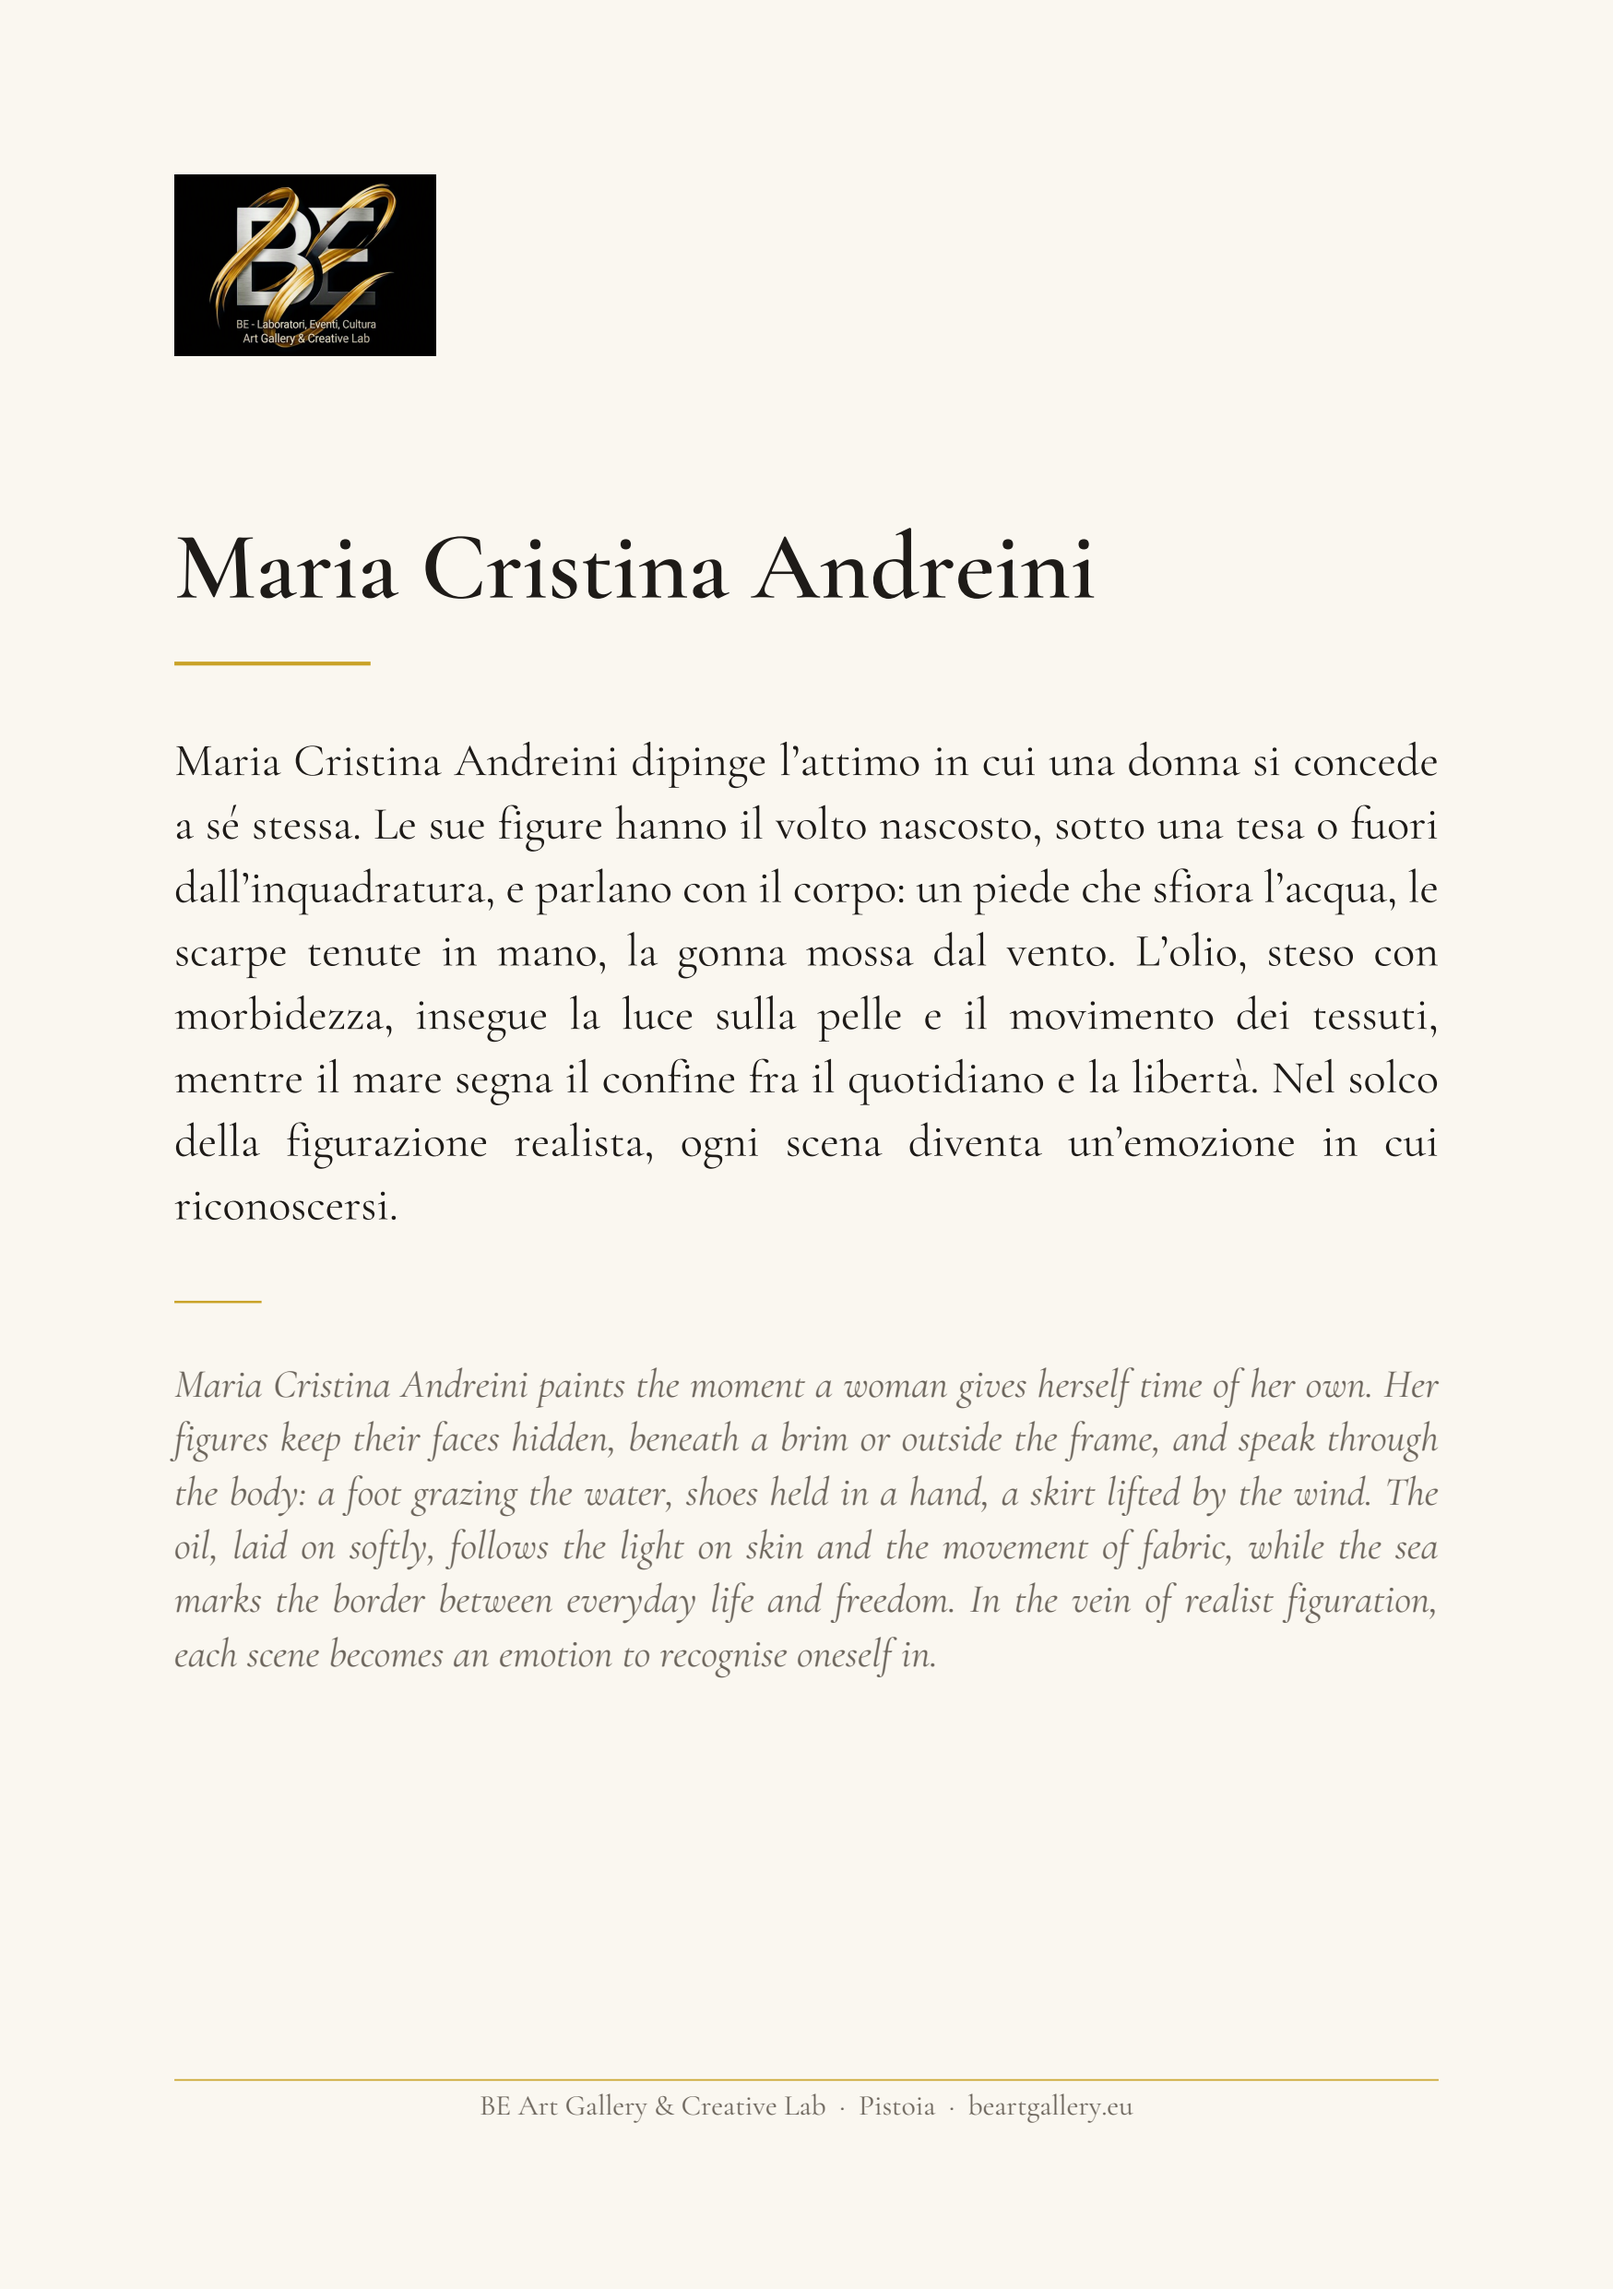
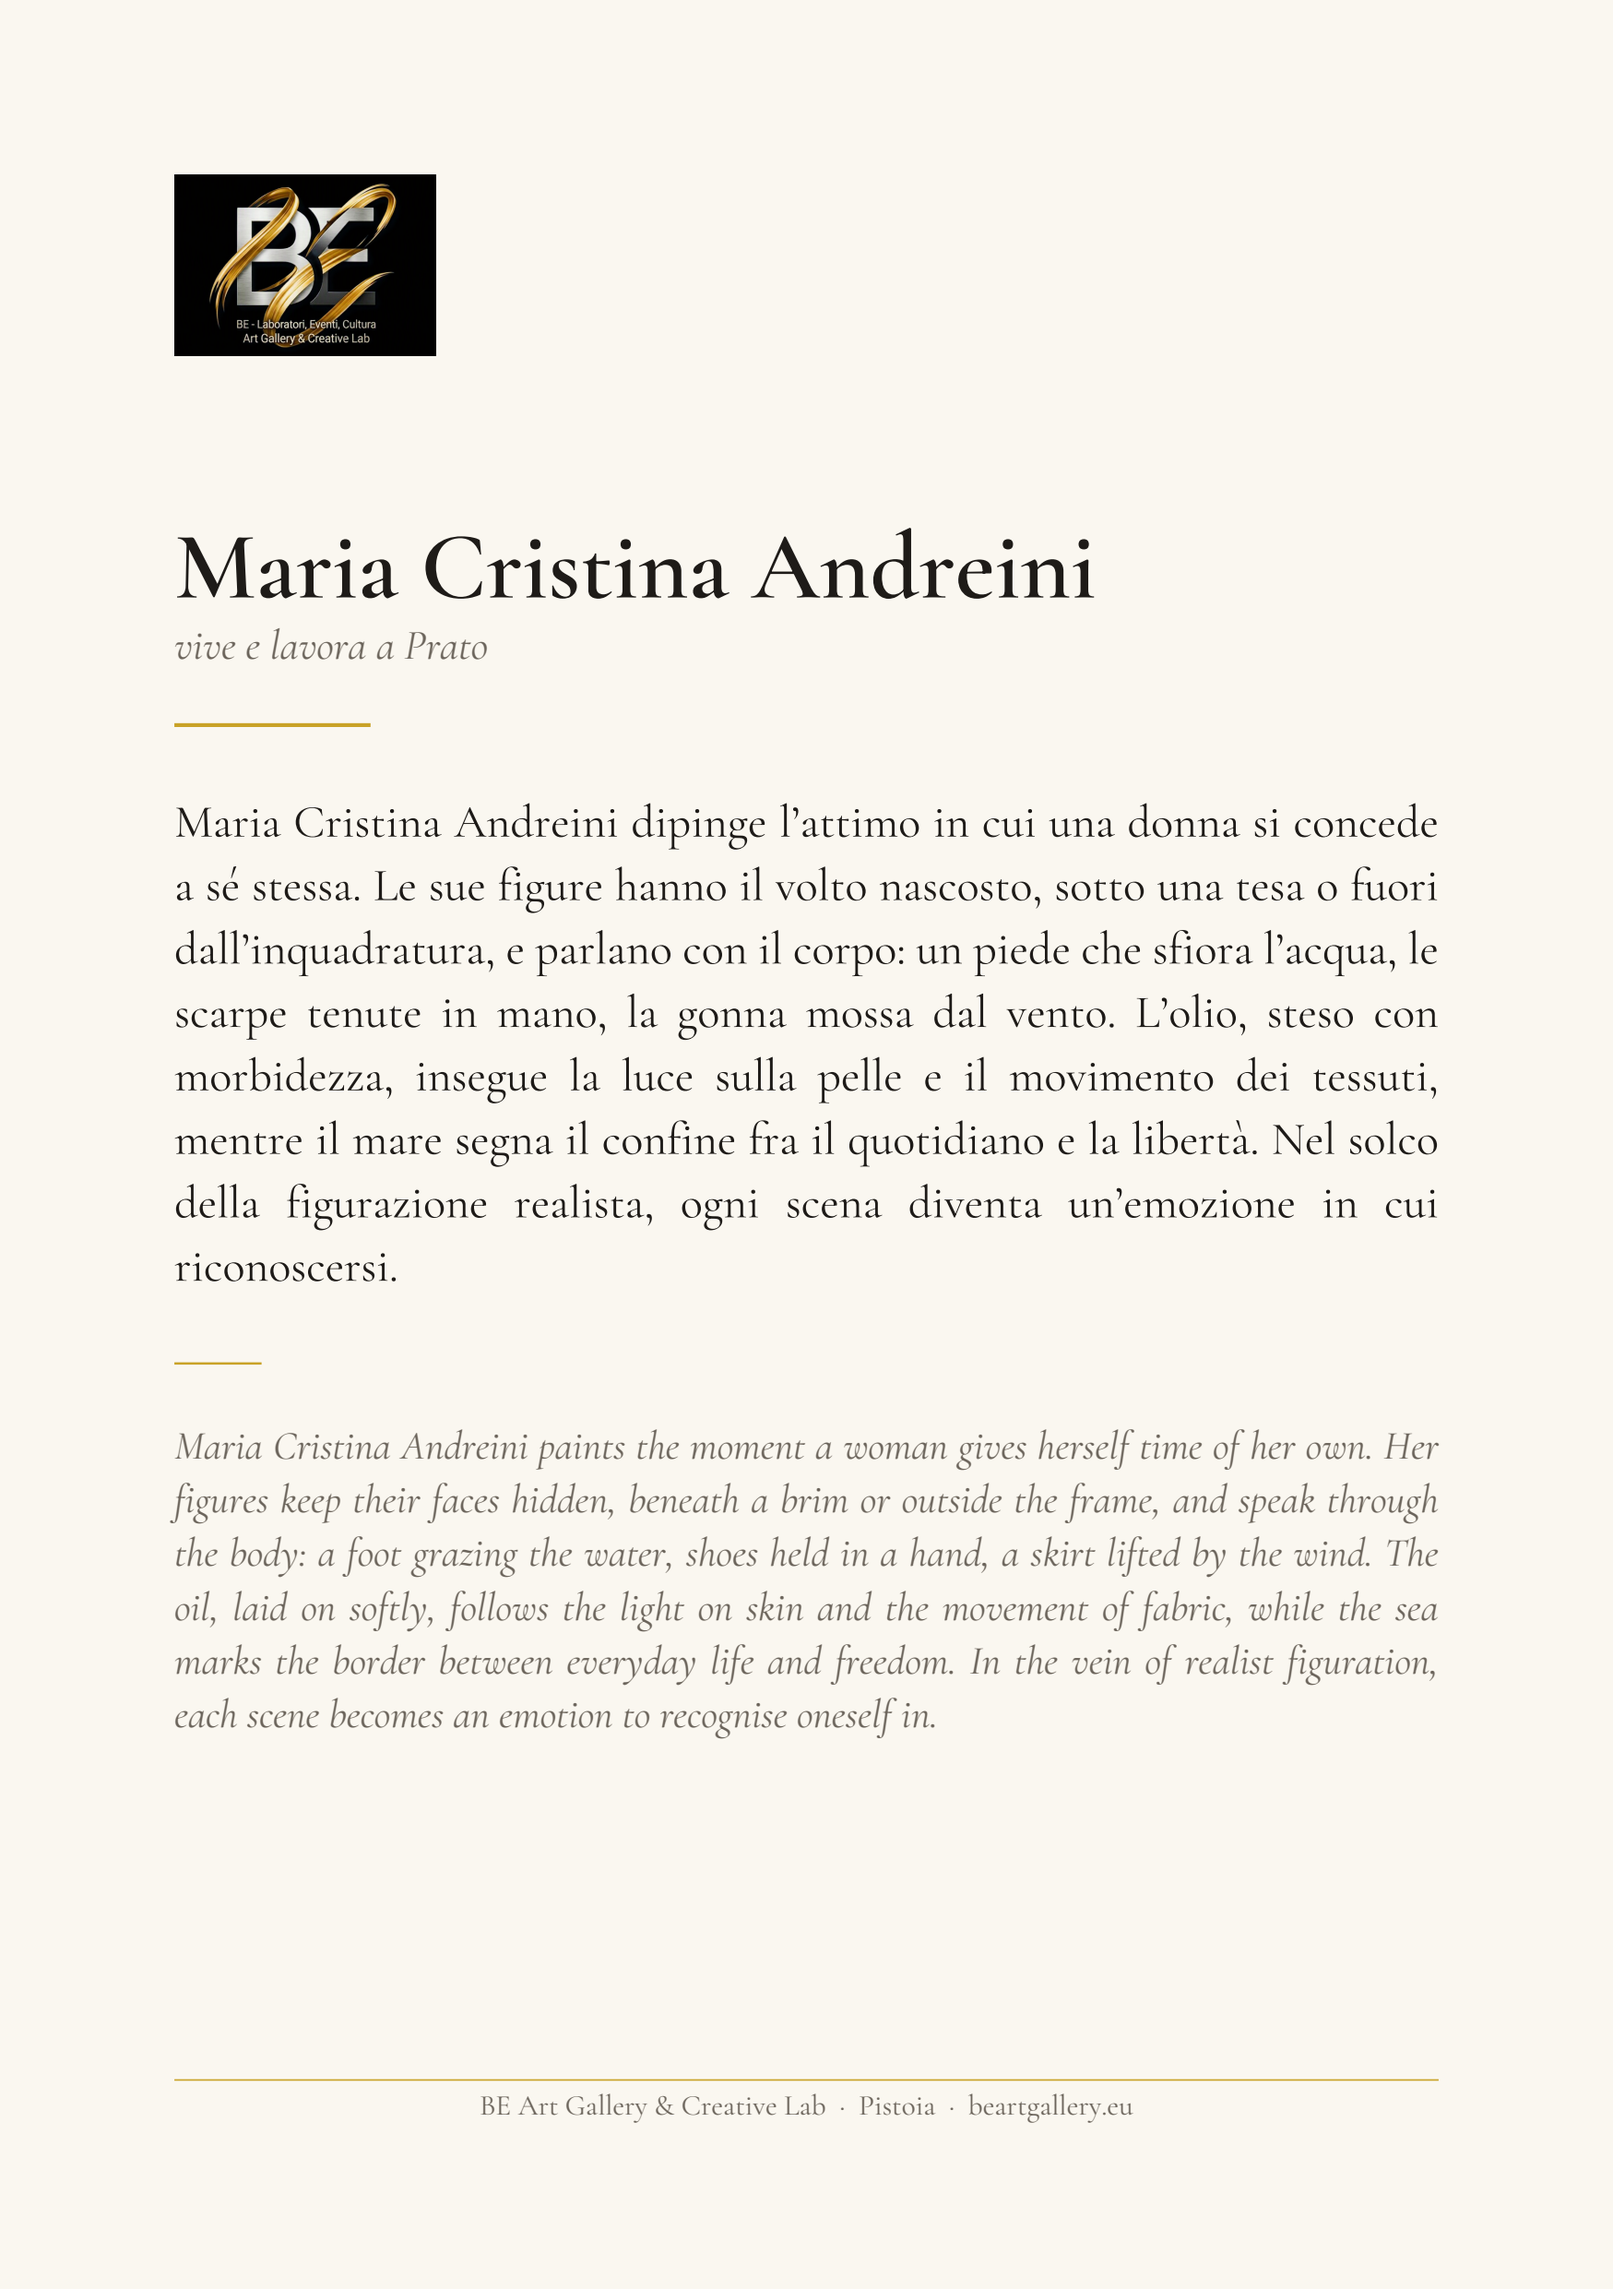
Aggiunge la città di Maria Cristina Andreini
Claude-Session: https://claude.ai/code/session_0148bZgqQiCtdshijf84M1Qp

Changed region(s): [[0.0926, 0.2793, 0.8954, 0.5586], [0.0926, 0.5897, 0.8954, 0.7759]]

diff --git a/testi-critici/artisti/maria-cristina-andreini/analisi.md b/testi-critici/artisti/maria-cristina-andreini/analisi.md
@@ -6,8 +6,8 @@
 
 | | |
 |---|---|
-| **Vive e lavora** | *da confermare* |
-| **Opere analizzate** | *Passeggiando con i piedi nell'acqua*, olio su tela, 60 × 70 cm · *La ragazza sul muretto*, olio su tela, 50 × 70 cm — anni non indicati |
+| **Vive e lavora** | Prato |
+| **Opere analizzate** | *Passeggiando con i piedi nell'acqua*, olio su tela, 60 × 70 cm · *La ragazza sul muretto*, olio su tela, 50 × 70 cm — non datate: i cartellini escono senza anno |
 | **Stesura** | 6 ottobre 2026 · v1 |
 | **Nome** | firma «MC Andreini»; il profilo pubblico (artemisia.art) usa *Maria Cristina Andreini* |
 
@@ -82,7 +82,5 @@ dopo: coincide con la luminosità e il piacere fisico delle scene.
   nelle note: orientano chi scrive, ma nel testo diventerebbero etichette
 
 ### Cosa resta aperto
-- **dove vive e lavora**
-- **l'anno** delle due opere
 - **il nome** con cui vuole comparire: *Maria Cristina Andreini* o *Cristina Andreini*
 - i dati di contatto della mail **non** entrano nel repository
